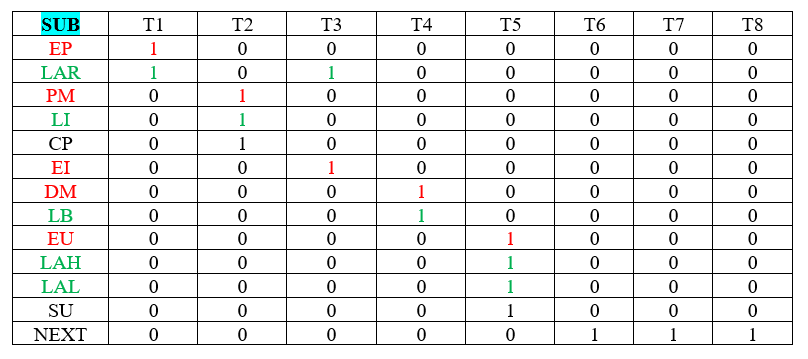
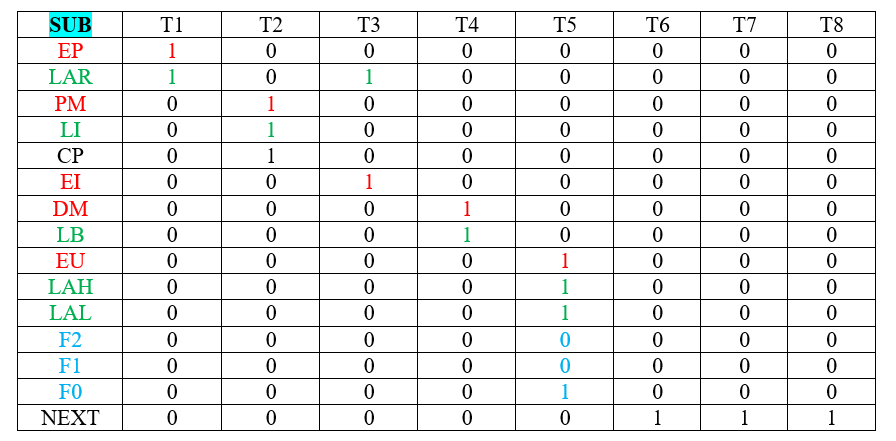
modified:   Pictures/Figure14.png modified:   README.md modified:   Tables/Table4.png

Changed region(s): [[0.0, 0.0, 0.9901, 0.9805]]

diff --git a/README.md b/README.md
@@ -258,7 +258,7 @@ The Boolean equations for the signals that are active when the SUB instruction i
 -	EU = SUB * T5
 -	LAH = SUB * T5
 -	LAL = SUB * T5
--	SU = SUB * T5
+-	F0 = SUB * T5
 -	NEXT = SUB * T6 + SUB * T7 + SUB * T8
 
 Using the NEXT signal moves to the next instruction without losing micro-steps. This variable microcode length system for the SUB instruction will use 5/6=0.84 which is 84% of the time compared to 5/8=0.625 and 62.5% if we do not use this option.
